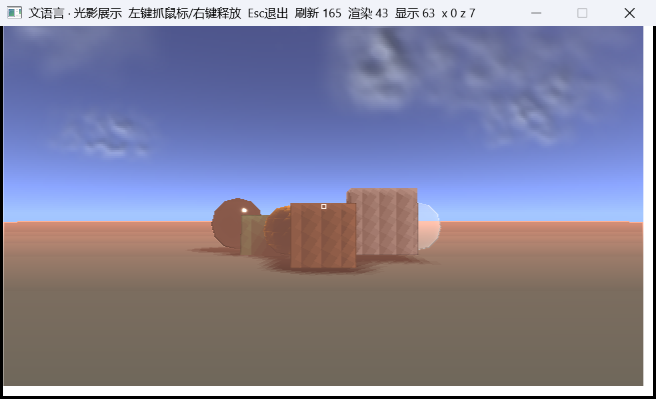
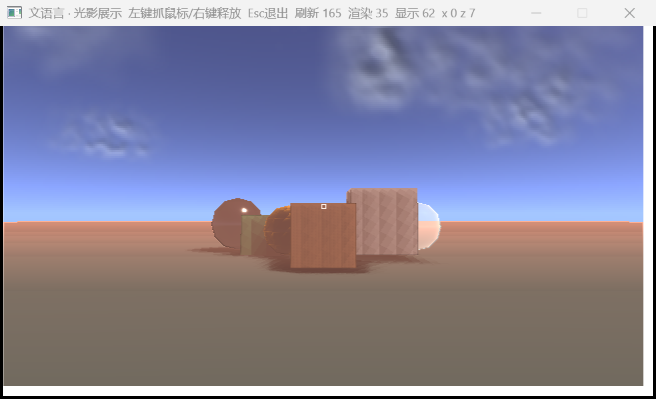
光影升级：金属/玻璃天空环境反射；阴影5x5加权PCF；截图；155/157

Changed region(s): [[0.0305, 0.0, 0.7012, 0.0602], [0.6402, 0.5113, 0.6707, 0.6316]]

diff --git a/wen.cpp b/wen.cpp
@@ -12565,9 +12565,11 @@ Interpreter::Interpreter() {
                     double dz = pdot(d, cs.fwd) - bias;
                     if (sx < 1 || sy < 1 || sx >= cs.size-1 || sy >= cs.size-1) return 1.0;
                     int cx=(int)sx, cy=(int)sy, lit=0, total=0;
-                    for(int oy=-1;oy<=1;++oy) for(int ox=-1;ox<=1;++ox) {
+                    for(int oy=-2;oy<=2;++oy) for(int ox=-2;ox<=2;++ox) {
                         float sd=cs.map[(size_t)(cy+oy)*cs.size+(cx+ox)];
-                        ++total; if (dz <= sd) ++lit;
+                        int wgt = 3 - std::abs(ox) - std::abs(oy);
+                        if (wgt <= 0) continue;
+                        total += wgt; if (dz <= sd) lit += wgt;
                     }
                     return (double)lit / std::max(1,total);
                 };
@@ -12660,15 +12662,29 @@ Interpreter::Interpreter() {
                         double fres = 0.18 + 0.62 * std::pow(1.0 - std::max(0.0, pdot(n, vdir)), 3.0);
                         double alpha = 0.18 + 0.45 * fres;
                         double tr = (col>>16)&255, tg=(col>>8)&255, tb=col&255;
-                        pw.back[i*3]   = (unsigned char)(pw.back[i*3]   * (1-alpha) + tb * alpha);
-                        pw.back[i*3+1] = (unsigned char)(pw.back[i*3+1] * (1-alpha) + tg * alpha);
-                        pw.back[i*3+2] = (unsigned char)(pw.back[i*3+2] * (1-alpha) + tr * alpha);
-                        zbuf[i] = z - 0.001;  // 玻璃不遮挡后面的不透明物，但保留近层
+                        PVec inDir = pmul(vdir, -1.0);
+                        PVec rdir = pnorm(psub(inDir, pmul(n, 2.0*pdot(inDir,n))));
+                        auto env = skyColor(rdir);
+                        double rr = pw.back[i*3+2]*(1-alpha) + tr*alpha + env[2]*fres*0.55;
+                        double gg = pw.back[i*3+1]*(1-alpha) + tg*alpha + env[1]*fres*0.55;
+                        double bb = pw.back[i*3]  *(1-alpha) + tb*alpha + env[0]*fres*0.55;
+                        pw.back[i*3]   = (unsigned char)std::min(255.0, std::max(0.0, bb));
+                        pw.back[i*3+1] = (unsigned char)std::min(255.0, std::max(0.0, gg));
+                        pw.back[i*3+2] = (unsigned char)std::min(255.0, std::max(0.0, rr));
+                        zbuf[i] = z - 0.001;
                         continue;
                     }
                     double rr = cb*kd*lit*shade + spec*lb*255.0*shade;
                     double gg = cg*kd*lit*shade + spec*lg*255.0*shade;
                     double bb = cr*kd*lit*shade + spec*lr*255.0*shade;
+                    // 天空环境反射：金属明显，电介质很弱
+                    PVec inDir = pmul(vdir, -1.0);
+                        PVec rdir = pnorm(psub(inDir, pmul(n, 2.0*pdot(inDir,n))));
+                    auto env = skyColor(rdir);
+                    double envAmt = metal * 0.32 + (1.0-metal) * 0.035;
+                    rr += env[2] * envAmt * (0.35 + 0.65*rough);
+                    gg += env[1] * envAmt * (0.35 + 0.65*rough);
+                    bb += env[0] * envAmt * (0.35 + 0.65*rough);
                     rr = rr*(1-fog) + fogR*fog; gg = gg*(1-fog) + fogG*fog; bb = bb*(1-fog) + fogB*fog;
                     pw.back[i*3]=(unsigned char)std::min(255.0,std::max(0.0,rr));
                     pw.back[i*3+1]=(unsigned char)std::min(255.0,std::max(0.0,gg));

diff --git a/渲染架构.md b/渲染架构.md
@@ -76,6 +76,9 @@ color = albedo * kd * (ambient + NoL * intensity) + spec * lightColor
 ## 云重建
 - Catmull-Rom 4×4 重建
 - 云质量按帧时间自适应
+## 环境反射
+- 金属/玻璃按反射方向采样 Rayleigh/Mie 天空
+- 玻璃叠加 Fresnel 反射
 ## 阴影
 - 两级级联：近 512/24 单位，远 256/64 单位
 
@@ -83,7 +86,7 @@ color = albedo * kd * (ambient + NoL * intensity) + spec * lightColor
 - 阴影框跟随相机并纹素对齐
 - 法线偏移
 - 斜率相关 bias
-- 3×3 PCF
+- 5×5 PCF（中心加权）
 - 云影 64×64 投到地面
 
 ## 天空与云

diff --git a/版本验证报告.md b/版本验证报告.md
@@ -1,6 +1,6 @@
 # 版本验证报告
 
-- 生成时间：2026-10-29 03:00:17
+- 生成时间：2026-10-29 03:20:40
 - 版本：`0.1.0-snapshot`
 - 测试：未运行
 
@@ -17,8 +17,8 @@
 可运行: 真
 ```
 
[1 lines of base64/hex data omitted]
-- 大小：6474562 字节
[1 lines of base64/hex data omitted]
+- 大小：6475720 字节
 
 ## 插件
 
